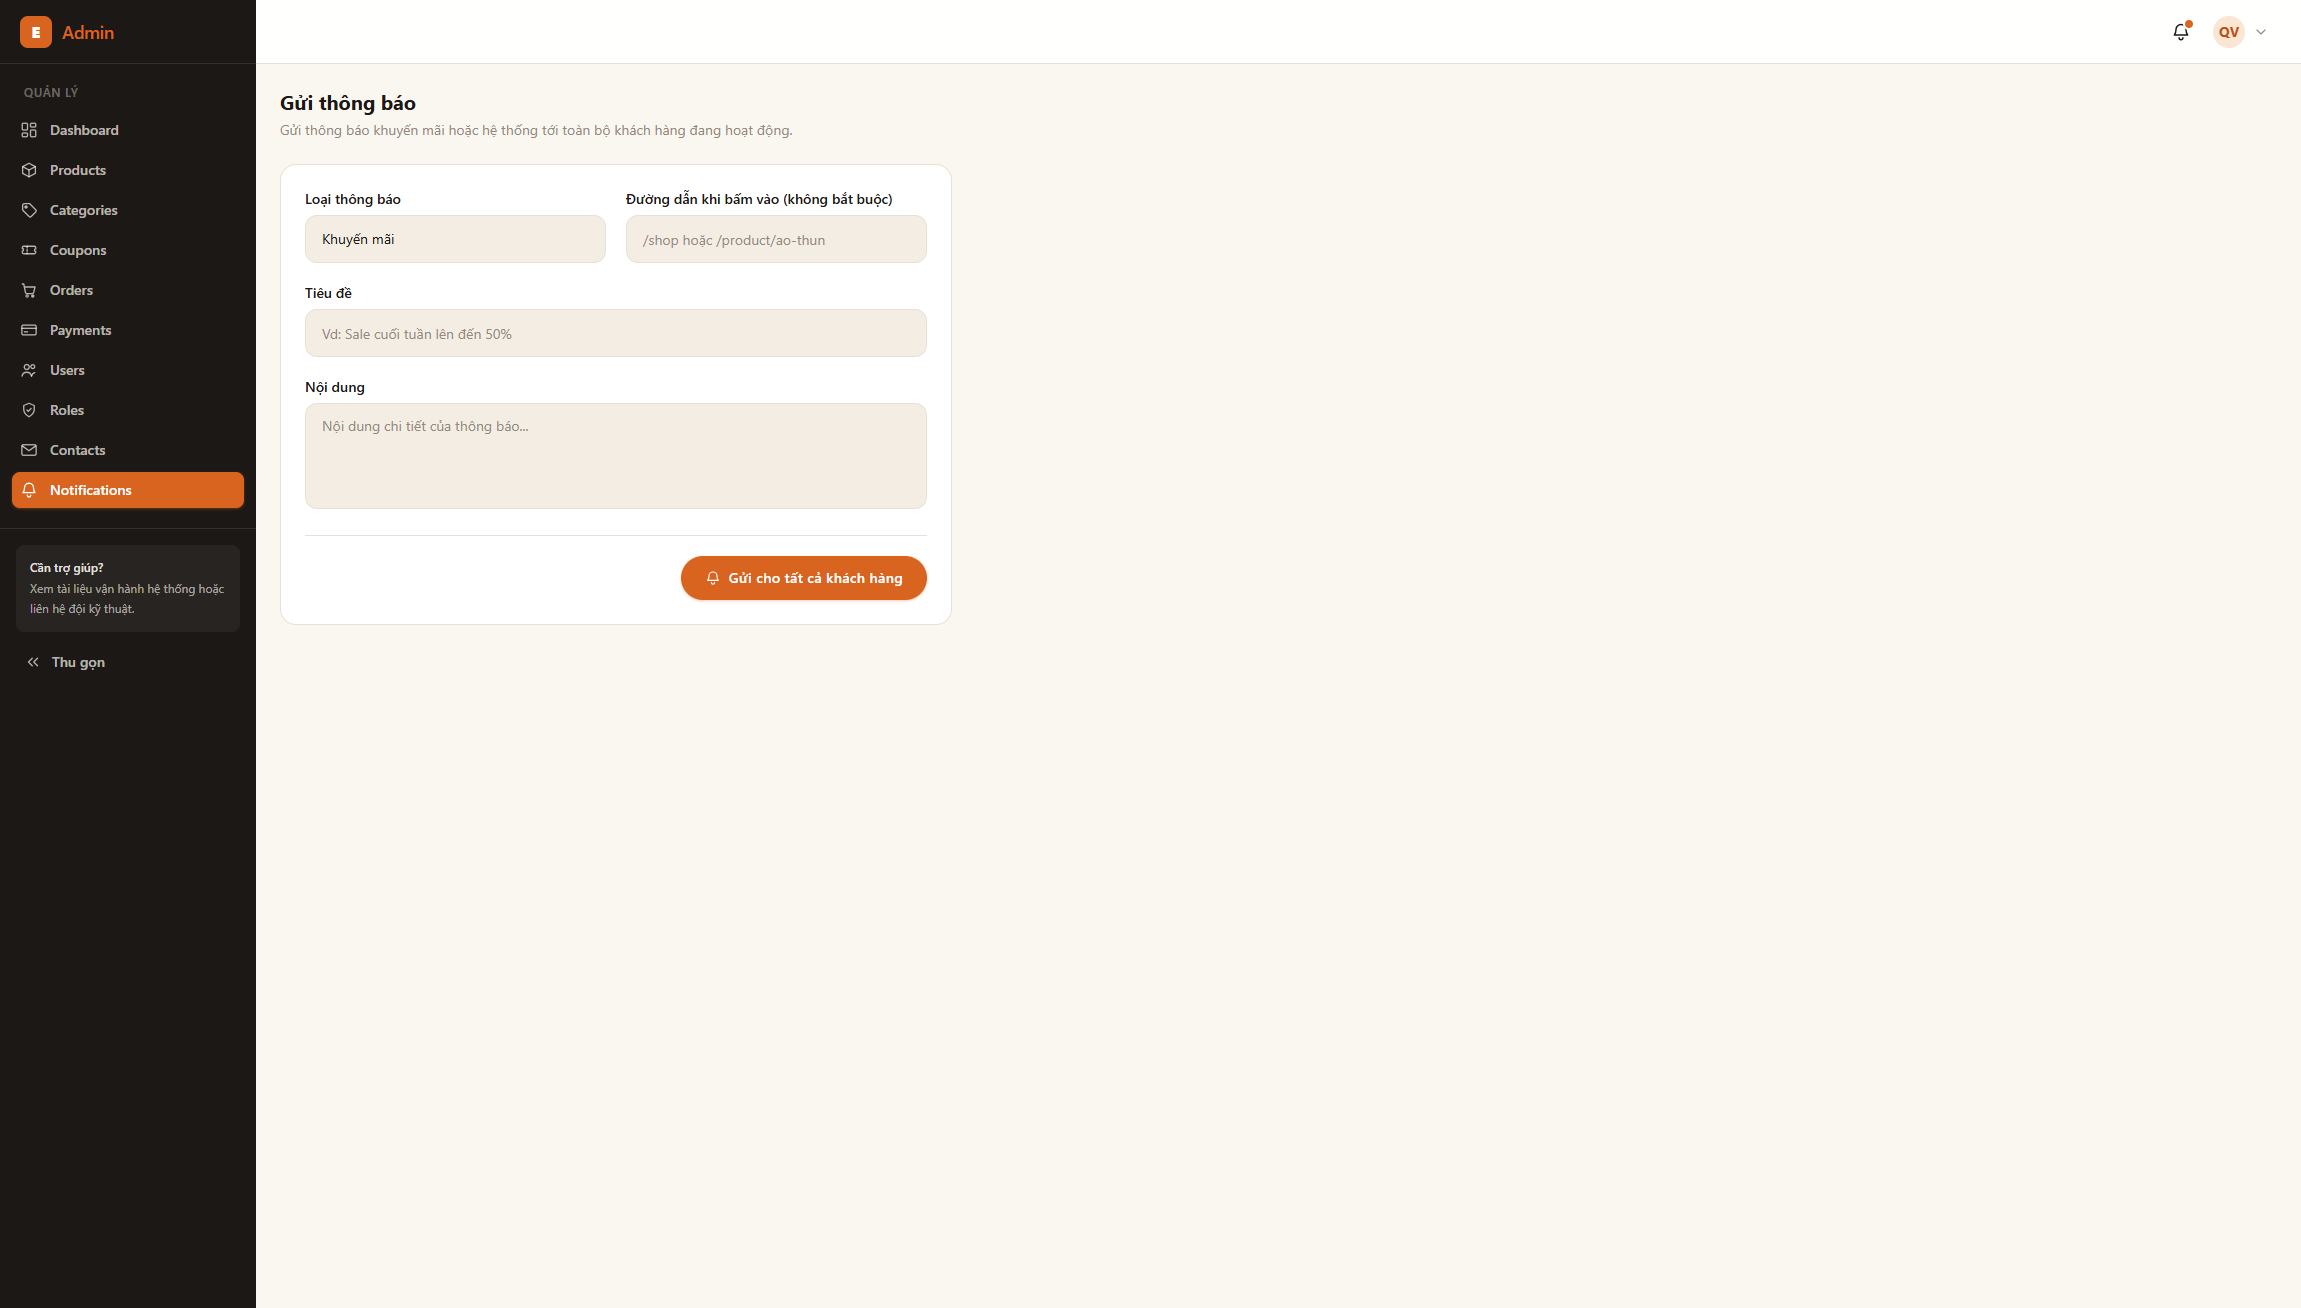
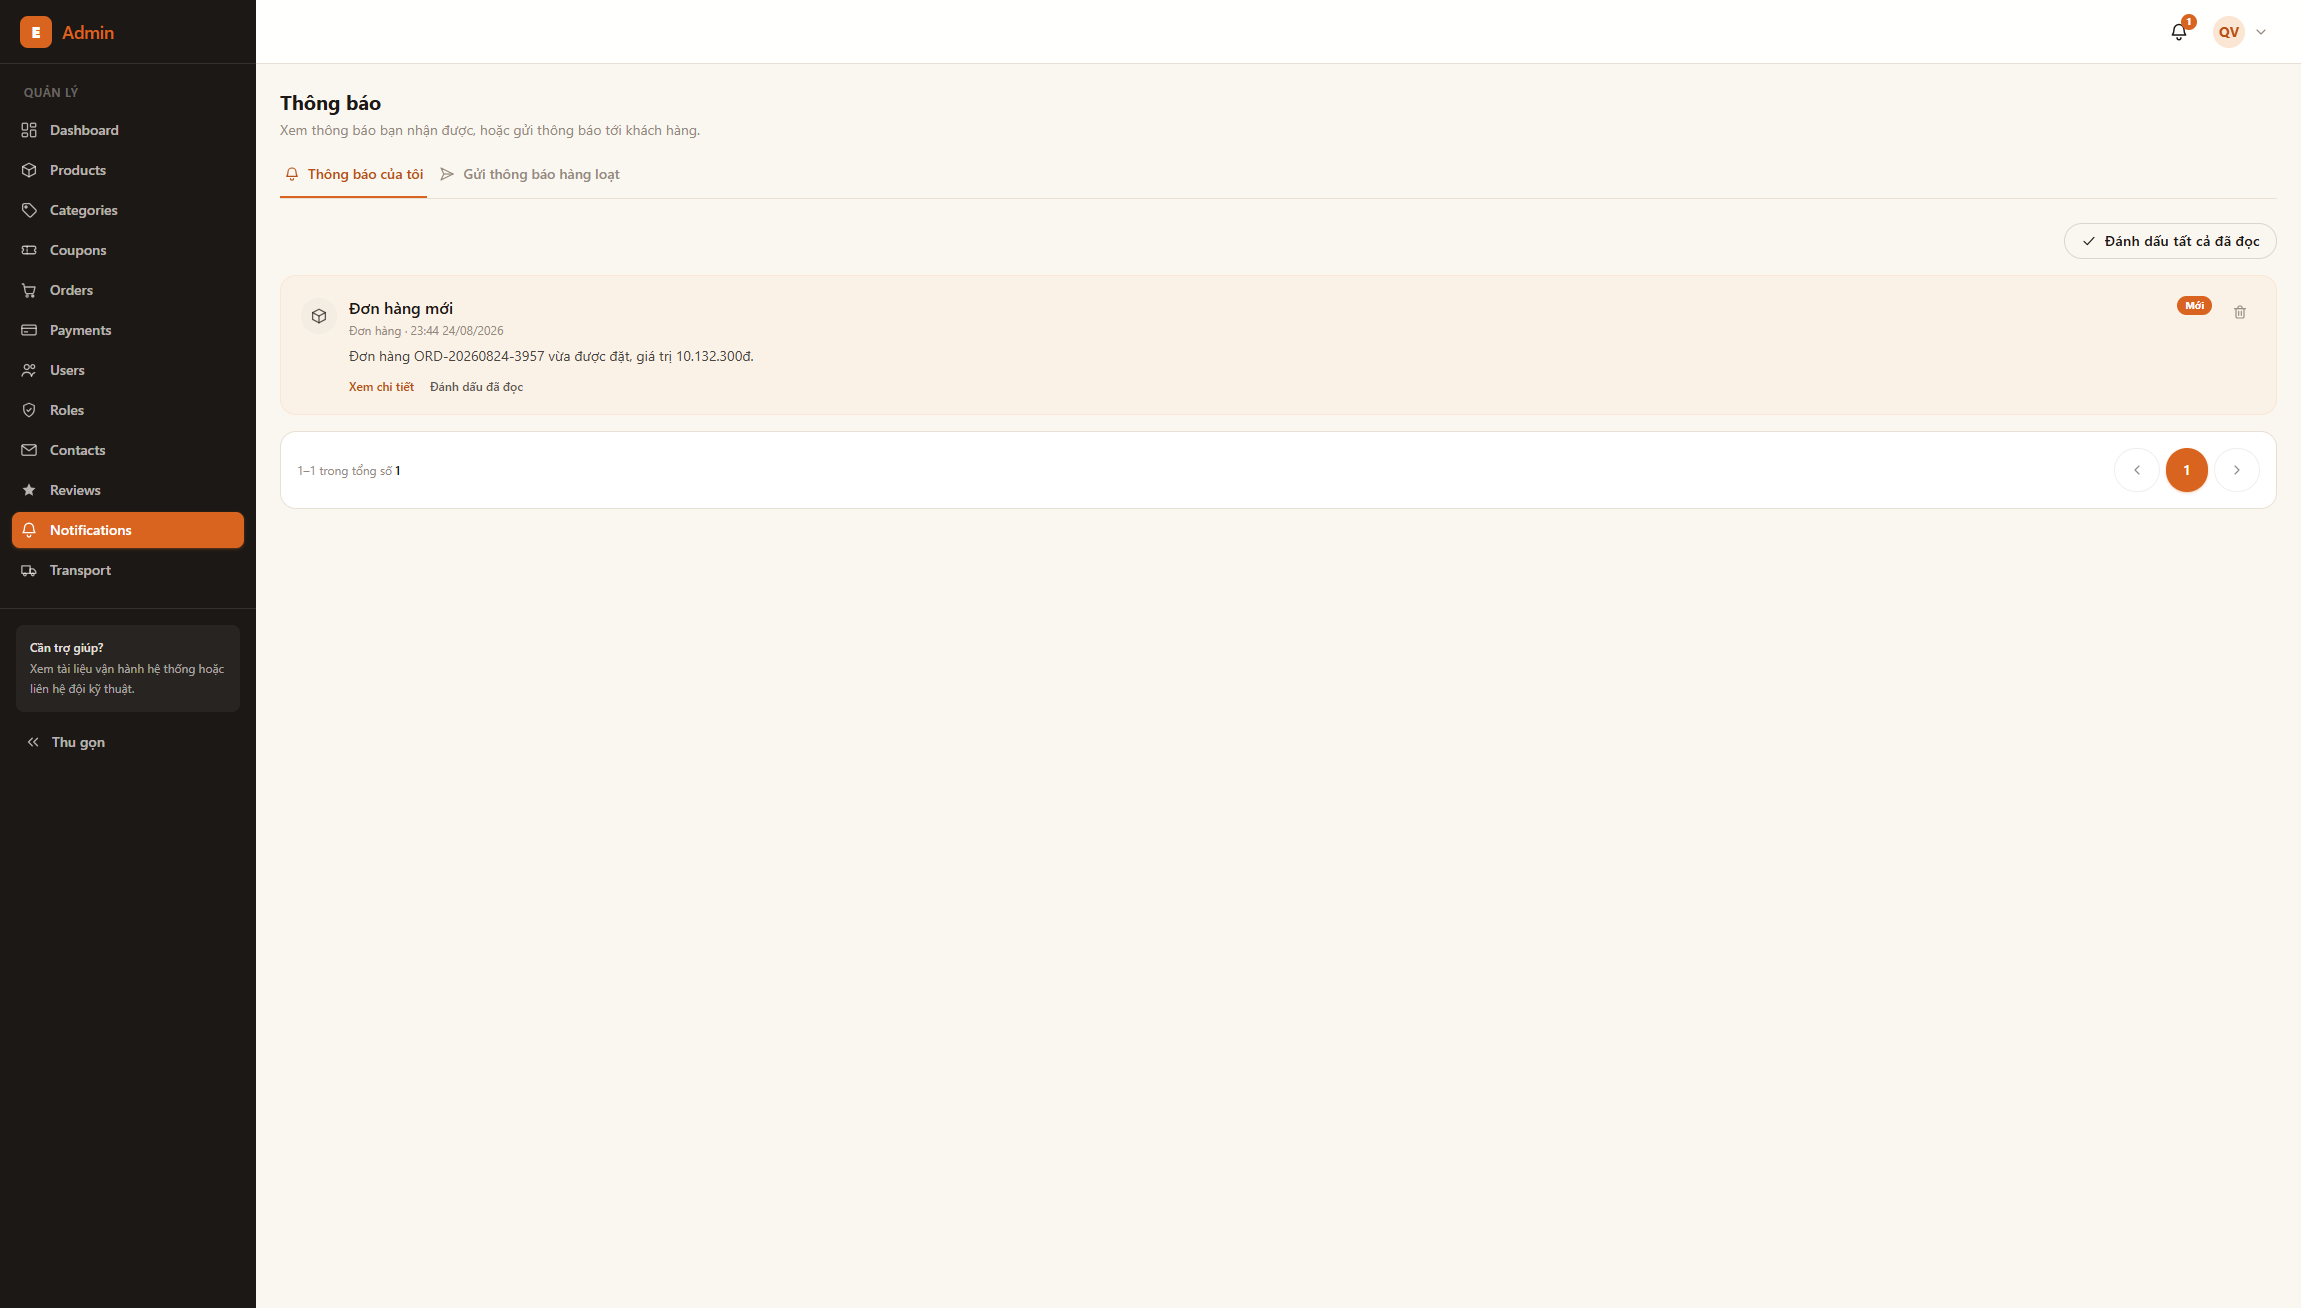
update: the readme.md file and images for the readme.md file

diff --git a/readme.md b/readme.md
@@ -275,6 +275,7 @@ Trang quản lý mã giảm giá
 
 Trang quản lý thông báo
 ![Ảnh giao diện quản lý thông báo](docs/images/admin/notifications.png)
+![Ảnh giao diện quản lý thông báo](docs/images/admin/notifications-2.png)
 
 Trang quản lý thanh toán
 ![Ảnh giao diện quản lý thanh toán](docs/images/admin/payments.png)
@@ -392,4 +393,5 @@ Dùng `better-sqlite3` làm database mặc định (phù hợp dev cục bộ); 
 - **Trải nghiệm người dùng**: Tiếp tục tinh chỉnh UI/UX cho cả giao diện Client và Admin.
 - **Thông báo real-time**: Hiện thông báo mới cập nhật qua polling (30s) — nâng cấp lên WebSocket để đẩy tức thời, và bổ sung thêm kênh gửi email/push (đã có sẵn interface `NotificationChannel`, chỉ cần thêm implementation mới).
 - **Chat trực tuyến**: Bổ sung tính năng hỗ trợ khách hàng realtime.
+- **Bảo hành sản phẩm**: Bổ sung tính năng quản lý bảo hành sản phẩm.
 - **AI**: Nghiên cứu và tích hợp AI vào các luồng nghiệp vụ của dự án (gợi ý sản phẩm, chatbot hỗ trợ...).
